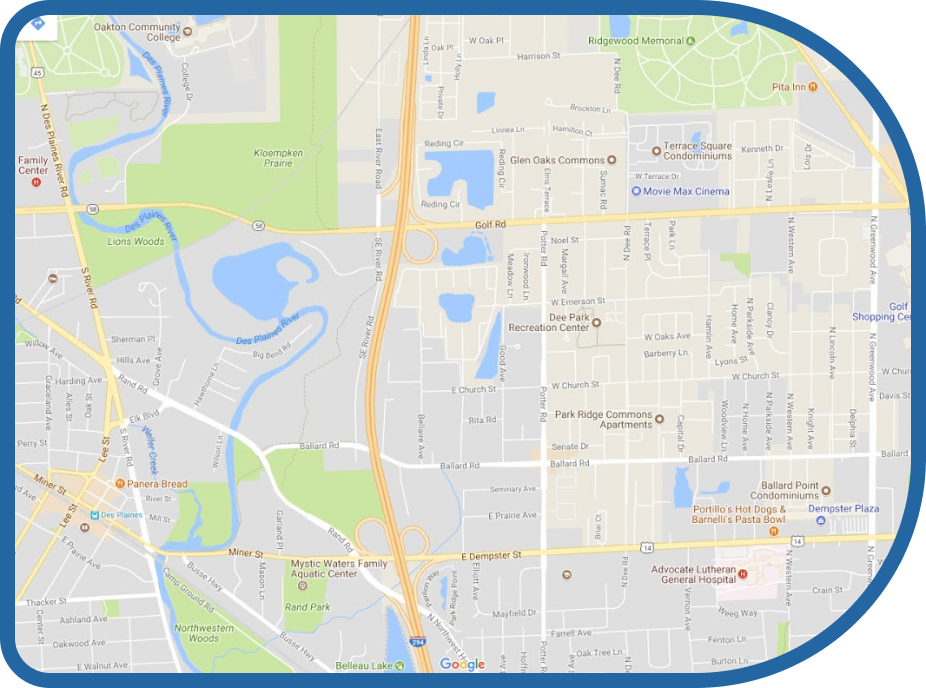
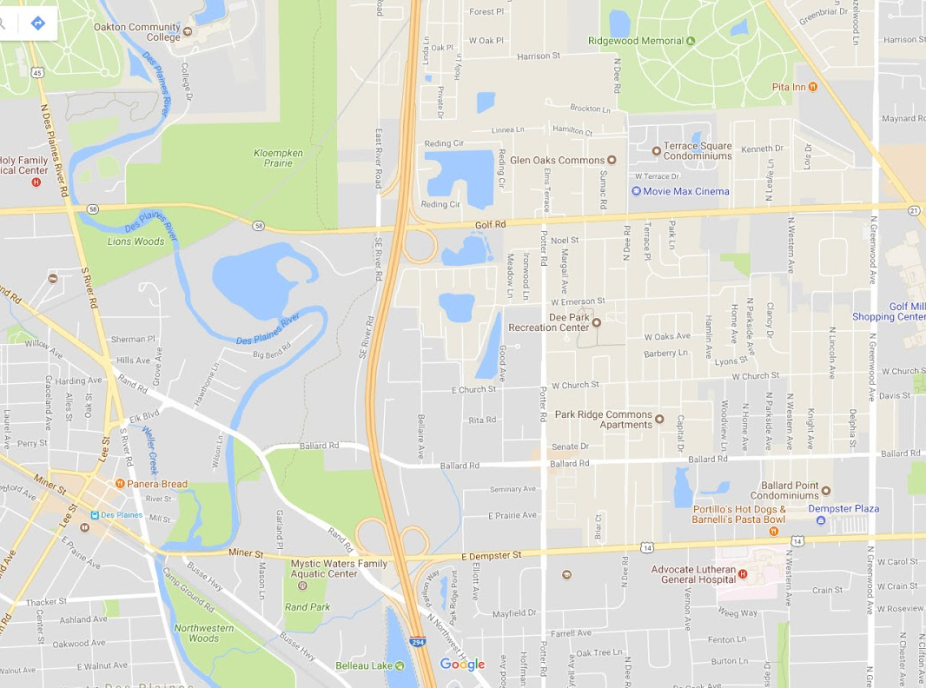
Frontend: Resolvido bug nos tamanhos do input no Contact.js & Resolvido bug de redirect no InitialNavbar.js & Adicionado mais margin entre os elementos do Home.js & Nova imagem mapa_bg.png

Changed region(s): [[0.0, 0.0, 1.0, 1.0]]

diff --git a/frontend/src/components/InitialNavbar.js b/frontend/src/components/InitialNavbar.js
@@ -2,6 +2,7 @@ import React from 'react'
 import NavBar from './MaterialKit/NavBarHeader/Header';
 import { Typography, makeStyles } from '@material-ui/core';
 import { Link } from 'react-router-dom';
+import { useHistory } from "react-router-dom";
 import {
     container,
     defaultFont,
@@ -54,13 +55,10 @@ const useStyles = makeStyles((theme) => ({
     appBar: {
         display: "flex",
         border: "0",
-        borderRadius: "3px",
         marginBottom: "20px",
         color: "#555",
         width: "100%",
         backgroundColor: "#fff",
-        boxShadow:
-          "0 4px 18px 0px rgba(0, 0, 0, 0.12), 0 7px 10px -5px rgba(0, 0, 0, 0.15)",
         transition: "all 150ms ease 0s",
         alignItems: "center",
         flexFlow: "row nowrap",
@@ -117,9 +115,7 @@ const useStyles = makeStyles((theme) => ({
       },
       primary: {
         backgroundColor: primaryColor,
-        color: "#FFFFFF",
-        boxShadow:
-          "0 4px 20px 0px rgba(0, 0, 0, 0.14), 0 7px 12px -5px rgba(156, 39, 176, 0.46)"
+        color: "#FFFFFF"
       },
       info: {
         backgroundColor: infoColor,
@@ -204,9 +200,11 @@ const useStyles = makeStyles((theme) => ({
       }
 }));
 
-function scrollToDiv(id) {
+async function scrollToDiv(id, history) {
+  if(history.location.pathname !== "/") {
+    await history.push("/")
+  }
   var element = document.getElementById(id);
-  console.log(element);
   window.scrollTo(0, element.offsetTop - 95);
 }
 
@@ -214,22 +212,22 @@ const MenuRight = (props) => {
     const classes = useStyles()
     return (
         <div className={classes.menuRightCollapse}>
-            <Link onClick={() => scrollToDiv("inicio")} className={classes.noLinkStyle}>
+            <Link onClick={() => scrollToDiv("inicio", props.history)} className={classes.noLinkStyle}>
                 Início
             </Link>
-            <Link onClick={() => scrollToDiv("como-doar")} className={classes.noLinkStyle}>
+            <Link onClick={() => scrollToDiv("como-doar", props.history)} className={classes.noLinkStyle}>
                 Como Doar?
             </Link>
-            <Link onClick={() => scrollToDiv("instituicoes")} className={classes.noLinkStyle}>
+            <Link onClick={() => scrollToDiv("instituicoes", props.history)} className={classes.noLinkStyle}>
                 Instituições
             </Link>
-            <Link onClick={() => scrollToDiv("sobre")} className={classes.noLinkStyle}>
+            <Link onClick={() => scrollToDiv("sobre", props.history)} className={classes.noLinkStyle}>
                 Sobre
             </Link>
             <Link to={`/contato`} className={classes.noLinkStyle}>
                 Contato
             </Link>
-            <Link to={`/contato`} className={classes.noLinkStyle}>
+            <Link to={`/login`} className={classes.noLinkStyle}>
                 Entrar
             </Link>
         </div>
@@ -252,7 +250,7 @@ const MenuLeft = (props) => {
 
 export default function InitialNavBar() {
     const classes = useStyles()
-
+    const history = useHistory();
     return (
             <NavBar
                 styles={classes}
@@ -262,7 +260,7 @@ export default function InitialNavBar() {
                     <MenuLeft />
                 }
                 rightLinks={
-                    <MenuRight />
+                    <MenuRight history={history} />
                 }
             />
     )

diff --git a/frontend/src/pages/publics/Home.js b/frontend/src/pages/publics/Home.js
@@ -34,7 +34,7 @@ const useStyles = makeStyles((theme) => ({
         }
     },
     containerWhite: {
-        margin: '1rem 3rem',
+        margin: '1.5rem 3rem',
         [theme.breakpoints.down('xs')]: {
             margin: '0 .5rem'
         }
@@ -146,9 +146,6 @@ const useStyles = makeStyles((theme) => ({
         height: 100,
         display: 'block',
         margin: 'auto',
-        [theme.breakpoints.up('lg')]: {
-
-        }
     },
     nameMember: {
         fontSize: 18,
@@ -167,6 +164,17 @@ const useStyles = makeStyles((theme) => ({
     },
     instagramLogo: {
         maxWidth: '20%'
+    },
+    image1: {
+        width: '100%',
+        height: '100%',
+        borderRadius: '45px 150px 150px 45px',
+        [theme.breakpoints.down('xs')]: {
+            borderRadius: 0,
+            width: '97%',
+            display: 'block',
+            margin: '1rem auto 0 auto'
+        }
     }
 
 }));
@@ -192,7 +200,7 @@ export default function Home(props) {
                             <p>O cadastro é importante para recomendarmos de maneira justa as instituições que receberam poucas doações.</p>
                         </p>
                     </Grid>
-                    <Grid item xs={12} md={6} lg={5} style={{ width: '100%', height: '100%' }}>
+                    <Grid item xs={12} md={6} lg={5} style={{ width: '100%', height: '100%', paddingTop: 10 }}>
                         <div className={classes.videoContainer}>
                         <iframe src='https://youtube.com/embed/toxC0kbiK2w'
                             frameBorder='0'
@@ -208,7 +216,7 @@ export default function Home(props) {
                 {/*Conheça as instituições*/}
                 <Grid container id="instituicoes" className={classes.containerBlue}>
                     <Grid item xs={12} md={5} lg={6}>
-                        <img alt="imagem" style={{ width: '100%' }} src="/images/mapa_bg.png" />
+                        <img alt="imagem" className={classes.image1} src="/images/mapa_bg.png" />
                     </Grid>
                     <Grid item xs={12} md={7} lg={6} style={{ color: 'white' }}>
                         <p className={classes.titulo} style={{ fontWeight: "bold" , marginTop: '3.5rem'}}>Conheça as instituições</p>

diff --git a/frontend/src/pages/publics/Contact.js b/frontend/src/pages/publics/Contact.js
@@ -42,7 +42,7 @@ const useStyles = makeStyles((theme) => ({
     },
     input: {
         height: 50,
-        width: '-webkit-fill-available',
+        width: '-webkit-fill-available; width: -moz-available',
         margin: '10px 0px',
         borderRadius: 25,
         fontSize: 18,
@@ -70,7 +70,7 @@ const useStyles = makeStyles((theme) => ({
         paddingTop: 20,
         paddingLeft: 20,
         borderRadius: 25,
-        width: '-webkit-fill-available',
+        width: '-webkit-fill-available; width: -moz-available',
         fontSize: 18,
         border: 'none',
         outline: 'none',
@@ -104,7 +104,8 @@ const Input = (props) => (
     />
 )
 
-export default function Contact() {
+export default function Contact({props}) {
+    console.log(props.history.location.pathname);
     const classes = useStyles();
     const Swal = require('sweetalert2');
     const [name, setName] = React.useState("");
@@ -161,6 +162,8 @@ export default function Contact() {
                 text: "Mensagem",
                 icon: 'success',
                 confirmButtonText: 'Ok'
+            }).then(() => {
+                props.history.push('/');
             });
         } else {
             if(response.data.name) {
